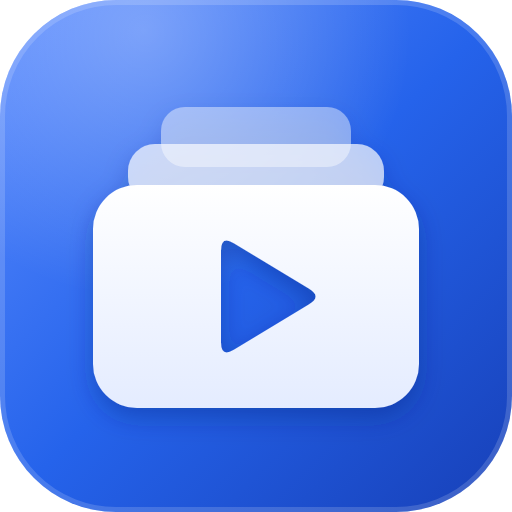
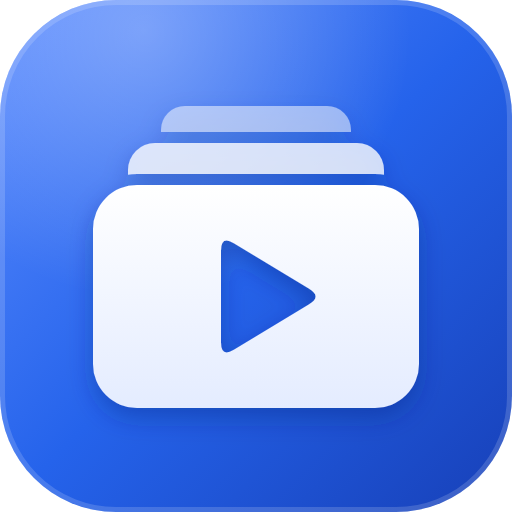
polish(ui): clean stacked-cards mark, sidebar account card, segmented sort, empty states
- Logo: the back cards were translucent and overlapped, doubling the alpha
  into a darker band. Each card now has an even gap masked out around the
  card in front, so the three layers read as separate cards at every size.
- Desktop sidebar: the loose "● 18 games on server" line becomes an account
  card (avatar with a connection light, name, game count). It opens the
  account menu upward (profile, refresh, settings, switch, sign out); guests
  get a Sign in card. The header now holds only the page title and search.
- Web UI sidebar: same card (avatar + light, user, "Steam · v0.3.1"), with
  sign-in / sign-out in place of the stray glyph button.
- Sort controls (store + profile) are a labelled segmented control.
- Empty states get a tinted icon disc and calmer type; Downloads has its own
  icon.

Claude-Session: https://claude.ai/code/session_01EVJwiv4epfU4RFj83Dkqo2

Changed region(s): [[0.25, 0.2812, 0.75, 0.375], [0.3125, 0.25, 0.6875, 0.2812]]

diff --git a/client/renderer/app.js b/client/renderer/app.js
@@ -8,6 +8,7 @@ const gh = window.gamehub;
 const ES_ICONS = {
   controller: '<svg viewBox="0 0 24 24"><path d="M7.97 6h8.06a5.5 5.5 0 0 1 5.39 4.47l1.02 5.6a3 3 0 0 1-5.2 2.54L15.6 16H8.4l-1.64 2.61a3 3 0 0 1-5.2-2.54l1.02-5.6A5.5 5.5 0 0 1 7.97 6Zm0 2a3.5 3.5 0 0 0-3.43 2.85l-1.02 5.6a1 1 0 0 0 1.73.85L7.6 14h8.8l2.35 3.45a1 1 0 0 0 1.73-.85l-1.02-5.6A3.5 3.5 0 0 0 16.03 8H7.97ZM8 10.25a1 1 0 0 1 1 1v.75h.75a1 1 0 1 1 0 2H9v.75a1 1 0 1 1-2 0V14h-.75a1 1 0 1 1 0-2H7v-.75a1 1 0 0 1 1-1Zm7.75.5a1.25 1.25 0 1 1 0 2.5 1.25 1.25 0 0 1 0-2.5Zm2.5 2.5a1.25 1.25 0 1 1 0 2.5 1.25 1.25 0 0 1 0-2.5Z"/></svg>',
   trophy: '<svg viewBox="0 0 24 24"><path d="M6 2h12a1 1 0 0 1 1 1v1h2a1 1 0 0 1 1 1c0 2.9-2.35 5.32-5.24 5.48A6.01 6.01 0 0 1 13 14.92V17h3a1 1 0 1 1 0 2H8a1 1 0 1 1 0-2h3v-2.08a6.01 6.01 0 0 1-3.76-4.44C4.35 10.32 2 7.9 2 5a1 1 0 0 1 1-1h2V3a1 1 0 0 1 1-1Zm13 4h-1v2.06A3 3 0 0 0 20 6h-1ZM5 6H4a3 3 0 0 0 2 2.06V6Z"/></svg>',
+  download: '<svg viewBox="0 0 24 24"><path d="M12 3a1 1 0 0 1 1 1v9.59l3.3-3.3a1 1 0 1 1 1.4 1.42l-5 5a1 1 0 0 1-1.4 0l-5-5a1 1 0 1 1 1.4-1.42l3.3 3.3V4a1 1 0 0 1 1-1ZM5 19a1 1 0 0 1 1-1h12a1 1 0 1 1 0 2H6a1 1 0 0 1-1-1Z"/></svg>',
   search: '<svg viewBox="0 0 24 24"><path d="M10 2a8 8 0 1 0 4.9 14.32l5.39 5.39a1 1 0 0 0 1.42-1.42l-5.39-5.39A8 8 0 0 0 10 2Zm0 2a6 6 0 1 1 0 12 6 6 0 0 1 0-12Z"/></svg>',
   check: '<svg viewBox="0 0 24 24"><path d="M12 2a10 10 0 1 0 0 20 10 10 0 0 0 0-20Zm0 2a8 8 0 1 1 0 16 8 8 0 0 1 0-16Zm-1.17 10.24 5.66-5.66a1 1 0 0 1 1.42 1.42l-6.37 6.36a1 1 0 0 1-1.41 0l-3.19-3.18a1 1 0 1 1 1.42-1.42l2.47 2.48Z"/></svg>',
   user: '<svg viewBox="0 0 24 24"><path d="M12 2a5 5 0 1 1 0 10 5 5 0 0 1 0-10Zm0 12c4.42 0 8 2.24 8 5v1a1 1 0 0 1-1 1H5a1 1 0 0 1-1-1v-1c0-2.76 3.58-5 8-5Z"/></svg>',
@@ -359,7 +360,7 @@ function sortGames(list, sort) {
 function sortControlHtml() {
   const s = state.storeSort;
   const b = (k, l) => `<button class="sort-btn${s === k ? ' on' : ''}" data-storesort="${k}">${l}</button>`;
-  return `<span class="sort-control"><span class="muted">Sort</span>${b('featured', 'Featured')}${b('reviews', 'Rating')}${b('added', 'Newest')}${b('released', 'Release')}${b('name', 'Name')}</span>`;
+  return `<span class="sort-control"><span class="sort-label">Sort by</span><span class="sort-seg" role="group" aria-label="Sort">${b('featured', 'Featured')}${b('reviews', 'Rating')}${b('added', 'Newest')}${b('released', 'Release')}${b('name', 'Name')}</span></span>`;
 }
 
 /** Top picks for a focused store page — prefer games with hero art. */
@@ -1640,10 +1641,23 @@ function avatarHtml(user, size = 40) {
   return `<div class="pfp fallback" style="${dim};font-size:${Math.round(size * 0.42)}px;background:${avatarColor(name)}">${esc(name.slice(0, 1).toUpperCase())}</div>`;
 }
 function setAccountAvatar(avatar) {
-  const btn = $('#account-btn');
-  if (!btn) return;
-  if (avatar) { btn.style.backgroundImage = `url('${avatar}')`; btn.classList.add('has-avatar'); }
-  else { btn.style.backgroundImage = ''; btn.classList.remove('has-avatar'); }
+  const el = $('#account-avatar');
+  if (!el) return;
+  if (avatar) { el.style.backgroundImage = `url('${avatar}')`; el.classList.add('has-avatar'); }
+  else { el.style.backgroundImage = ''; el.classList.remove('has-avatar'); }
+}
+// Sidebar account card subtitle: "nas:8686 · 18 games" / "This PC · 18 games" / "… · Offline"
+let connLabel = '';
+let libCount = null;
+function setConnStatus(ok) {
+  const dot = $('#conn-dot');
+  dot.className = `presence ${ok ? 'ok' : 'warn'}`;
+  dot.title = ok ? 'Connected' : 'Offline';
+  const count = libCount == null ? '' : `${libCount} game${libCount === 1 ? '' : 's'}`;
+  // the host lives in the tooltip + menu header; the card keeps to what fits
+  $('#status-line').textContent = ok ? (isLocalMode ? [count, 'This PC'].filter(Boolean).join(' · ') : count) : 'Offline · retrying';
+  const card = $('#account-btn');
+  if (card && connLabel) card.title = `${ok ? 'Connected to' : 'Can’t reach'} ${connLabel}`;
 }
 
 let socialPollTimer = null;
@@ -1850,11 +1864,11 @@ function renderProfileHtml() {
       ${top.length ? `<div class="section-head"><h2>Top played</h2></div>
         <div class="card-rail">${top.map(profileTopCard).join('')}</div>` : ''}
       <div class="section-head"><h2>All played games</h2>
-        <span class="profile-sort">Sort:
+        <span class="profile-sort sort-control"><span class="sort-label">Sort by</span><span class="sort-seg" role="group" aria-label="Sort">
           <button class="sort-btn${sort === 'seconds' ? ' on' : ''}" data-sort="seconds">Playtime</button>
           <button class="sort-btn${sort === 'recent' ? ' on' : ''}" data-sort="recent">Recent</button>
           <button class="sort-btn${sort === 'name' ? ' on' : ''}" data-sort="name">Name</button>
-        </span>
+        </span></span>
       </div>
       <div class="played-list">${games.map(playedRow).join('')}</div>`}`;
 }
@@ -2210,6 +2224,7 @@ function wire(root) {
 }
 function closeMenus() {
   document.querySelectorAll('.menu').forEach((m) => m.classList.add('hidden'));
+  document.querySelectorAll('[aria-haspopup="menu"][aria-expanded="true"]').forEach((b) => b.setAttribute('aria-expanded', 'false'));
   document.querySelector('.ctx-menu')?.remove();
 }
 document.addEventListener('click', closeMenus);
@@ -2716,8 +2731,7 @@ async function refreshData(force = false) {
   try {
     const lib = await gh.getLibrary();
     loaded = true;
-    $('#conn-dot').className = 'dot ok';
-    $('#conn-dot').title = 'connected';
+    setConnStatus(true);
     $('#banner').classList.add('hidden');
     if (lib.categories) state.categories = lib.categories; // local; always current
     const hash = JSON.stringify([lib.games, lib.installed, lib.myLibrary, lib.favorites, lib.playtime]);
@@ -2727,17 +2741,15 @@ async function refreshData(force = false) {
     state.games = lib.games;
     rebuildGroups(); // recompute duplicate-package groups whenever the game list changes
     // count logical games (duplicate packages collapse into one)
-    const logical = groupsByKey.size;
-    $('#status-line').textContent = `${logical} game${logical === 1 ? '' : 's'} on server`;
+    libCount = groupsByKey.size;
+    setConnStatus(true);
     state.installed = lib.installed;
     state.myLibrary = lib.myLibrary || [];
     state.favorites = lib.favorites || [];
     state.playtime = lib.playtime || {};
     render();
   } catch (err) {
-    $('#conn-dot').className = 'dot warn';
-    $('#conn-dot').title = 'offline';
-    $('#status-line').textContent = 'offline';
+    setConnStatus(false);
     const needsLogin = /401/.test(err.message);
     if (needsLogin) {
       $('#banner').classList.add('hidden');
@@ -3502,36 +3514,45 @@ async function updateAccountChip() {
   // Social + Profile need an account — hide them from guests
   $('#nav-social').classList.toggle('hidden', isGuestMode);
   if (isGuestMode && (state.view === 'social' || state.view === 'profile')) switchView('store');
-  const acct = $('#account');
-  const signin = $('#account-signin');
-  const name = isLocal ? (cfg.username || 'Local') : cfg.username;
+  const host = String(cfg.serverUrl || '').replace(/^https?:\/\//, '').replace(/\/+$/, '');
+  connLabel = isLocal ? 'This PC' : host;
+  const name = isLocal ? (cfg.username || 'You') : cfg.username;
+  const card = $('#account-btn');
+  card.classList.toggle('guest', isGuestMode || !name);
   if (isGuestMode || !name) {
-    acct.classList.add('hidden');
-    signin.classList.remove('hidden'); // guest → offer sign-in
+    $('#sb-user').textContent = 'Sign in';
+    card.title = 'Sign in to install games';
+    $('#account-avatar').textContent = '';
+    $('#account-avatar').innerHTML = '<svg class="i" viewBox="0 0 24 24"><circle cx="12" cy="8.5" r="3.6"/><path d="M5 19.5c.8-3.4 3.6-5.3 7-5.3s6.2 1.9 7 5.3"/></svg>';
     setAccountAvatar(null);
-    return;
+  } else {
+    $('#sb-user').textContent = name;
+    $('#account-avatar').textContent = name.slice(0, 1).toUpperCase();
+    $('#account-name').textContent = name;
+    $('#account-server').textContent = isLocal
+      ? (() => {
+          const store = cfg.storeDir || cfg.libraryDir || '';
+          return store ? `Store · ${store.split(/[\\/]/).pop()}` : 'Local Store';
+        })()
+      : host;
+    // pull my picture into the card (fire-and-forget — the initial shows meanwhile)
+    gh.myStats().then((st) => setAccountAvatar(st && st.avatar)).catch(() => {});
   }
-  signin.classList.add('hidden');
-  acct.classList.remove('hidden');
-  $('#account-btn').textContent = name.slice(0, 1).toUpperCase();
-  $('#account-name').textContent = name;
-  $('#account-server').textContent = isLocal
-    ? (() => {
-        const store = cfg.storeDir || cfg.libraryDir || '';
-        return store ? `Store · ${store.split(/[\\/]/).pop()}` : 'Local Store';
-      })()
-    : cfg.serverUrl.replace(/^https?:\/\//, '');
-  // pull my picture into the chip (fire-and-forget — the initial shows meanwhile)
-  gh.myStats().then((st) => setAccountAvatar(st && st.avatar)).catch(() => {});
+  $('#account-switch').classList.toggle('hidden', isLocal);
+  $('#account-logout').classList.toggle('hidden', isLocal);
+  if (libCount != null) setConnStatus(!$('#conn-dot').classList.contains('warn'));
 }
 $('#account-signin').onclick = () => showAuth();
 $('#account-btn').onclick = (ev) => {
   ev.stopPropagation();
+  if ($('#account-btn').classList.contains('guest')) { showAuth(); return; }
   const menu = $('#account-menu');
   const wasHidden = menu.classList.contains('hidden');
   closeMenus();
   menu.classList.toggle('hidden', !wasHidden);
+  $('#account-btn').setAttribute('aria-expanded', String(wasHidden));
 };
+$('#account-refresh').onclick = () => { closeMenus(); $('#refresh-btn').click(); };
 $('#account-profile').onclick = () => { closeMenus(); loadProfile(); };
 $('#account-settings').onclick = () => { closeMenus(); openSettings('connection'); };
 $('#account-logout').onclick = async () => {

diff --git a/client/renderer/style.css b/client/renderer/style.css
@@ -1930,3 +1930,81 @@ body[data-view="game"] #page-title { visibility: hidden; }
 .game-page > .back-btn .i { width: 22px; height: 22px; }
 .detail-hero .gp-hero-main { flex: 0 0 auto; }
 header:has(#search.hidden) > .header-right { margin-left: auto; }
+
+/* ---------- sidebar account card (replaces the loose dot + "18 games" line) ---------- */
+.sidebar .sb-foot {
+  display: flex; align-items: center; gap: 4px; padding: 8px 0 0; margin-top: 6px;
+  border-top: 1px solid var(--border); position: relative;
+}
+.sb-foot .account { flex: 1; min-width: 0; position: relative; }
+.sb-account {
+  all: unset; box-sizing: border-box; width: 100%; cursor: pointer;
+  display: flex; align-items: center; gap: 10px; padding: 8px 8px; border-radius: 10px;
+  transition: background .18s var(--ease); -webkit-app-region: no-drag;
+}
+.sb-account:hover, .sb-account[aria-expanded="true"] { background: var(--fill-2); }
+.sb-account:focus-visible { outline: 2px solid var(--focus-ring); outline-offset: 1px; }
+.sb-account:active { transform: scale(0.985); }
+.sb-avatar-wrap { position: relative; flex: none; width: 32px; height: 32px; }
+.sb-avatar {
+  width: 32px; height: 32px; border-radius: 50%; display: grid; place-items: center;
+  background: linear-gradient(135deg, var(--accent-hover), var(--accent-press)) center / cover no-repeat;
+  color: #fff; font: 650 13px var(--font-ui);
+}
+.sb-avatar.has-avatar { color: transparent; background-size: cover; }
+.sb-avatar .i { width: 18px; height: 18px; }
+.sb-account.guest .sb-avatar { background: var(--fill-3); color: var(--text-2); }
+.presence {
+  position: absolute; right: -1px; bottom: -1px; width: 11px; height: 11px; border-radius: 50%;
+  background: var(--text-3); box-shadow: 0 0 0 2.5px var(--sidebar); transition: background .3s var(--ease);
+}
+.presence.ok { background: var(--green); }
+.presence.warn { background: var(--amber); }
+.sb-acct-text { flex: 1; min-width: 0; display: flex; flex-direction: column; line-height: 1.25; }
+.sb-user { font: 600 13.5px var(--font-ui); color: var(--text); white-space: nowrap; overflow: hidden; text-overflow: ellipsis; }
+.sb-account.guest .sb-user { color: var(--accent-text); }
+.sb-status { font-size: 12px; color: var(--muted); white-space: nowrap; overflow: hidden; text-overflow: ellipsis; font-variant-numeric: tabular-nums; }
+.sb-status:empty { display: none; }
+.sb-chev { width: 15px; height: 15px; color: var(--text-3); flex: none; }
+.sb-account.guest .sb-chev { display: none; }
+.sb-icon {
+  all: unset; flex: none; width: 32px; height: 32px; border-radius: 9px; display: grid; place-items: center;
+  color: var(--muted); cursor: pointer; transition: background .18s var(--ease), color .18s; -webkit-app-region: no-drag;
+}
+.sb-icon:hover { background: var(--fill-2); color: var(--text); }
+.sb-icon:focus-visible { outline: 2px solid var(--focus-ring); }
+.sb-icon .i { width: 17px; height: 17px; transition: transform .5s var(--spring); }
+.sb-icon:hover .i { transform: rotate(60deg); }
+.sb-icon.spinning .i { animation: gh-spin .8s linear infinite; }
+.sb-foot .account .menu {
+  top: auto; bottom: calc(100% + 8px); left: 0; right: auto; min-width: 220px; transform-origin: bottom left;
+}
+@media (max-width: 1100px) {
+  .sidebar .sb-foot { flex-direction: column; gap: 6px; border-top: none; }
+  .sb-acct-text, .sb-chev { display: none; }
+  .sb-account { justify-content: center; padding: 6px; }
+}
+
+/* account card: refresh lives in its menu — give the subtitle the room */
+.sb-foot #refresh-btn { display: none; }
+
+/* sort: label + segmented control */
+.sort-control { gap: 10px; font-size: 12.5px; }
+.sort-label { color: var(--muted); font-size: 12.5px; }
+.sort-seg { display: inline-flex; gap: 2px; padding: 3px; border-radius: 10px; background: var(--fill-1); border: 1px solid var(--border); }
+.sort-btn {
+  border: none; background: transparent; color: var(--muted); font: 500 12.5px var(--font-ui);
+  padding: 5px 12px; border-radius: 7px; cursor: pointer; transition: background .2s var(--ease), color .2s, box-shadow .2s;
+}
+.sort-btn:hover { color: var(--text); background: transparent; }
+.sort-btn.on { color: var(--text); background: var(--panel); border: none; box-shadow: 0 1px 3px rgba(0,0,0,0.14), inset 0 0 0 0.5px var(--border); }
+.sort-btn:focus-visible { outline: 2px solid var(--focus-ring); outline-offset: 1px; }
+
+/* empty states: tinted icon disc, calmer type */
+.empty-state { gap: 10px; padding: 72px 20px; }
+.empty-state .es-icon {
+  width: 72px; height: 72px; padding: 18px; border-radius: 50%; margin-bottom: 6px;
+  color: var(--accent-text); background: var(--accent-soft);
+}
+.empty-state .es-title { font: 650 18px var(--font-display); letter-spacing: -0.01em; }
+.empty-state .es-sub { font-size: 14px; max-width: 42ch; text-align: center; }

diff --git a/client/renderer/index.html b/client/renderer/index.html
@@ -22,27 +22,37 @@
         <svg class="update-spinner" viewBox="0 0 16 16" aria-hidden="true"><circle cx="8" cy="8" r="5.5" fill="none" stroke="currentColor" stroke-opacity="0.25" stroke-width="2"/><path d="M8 2.5a5.5 5.5 0 0 1 5.5 5.5" fill="none" stroke="currentColor" stroke-width="2" stroke-linecap="round"/></svg>
         <span id="update-pct" class="rail-badge update-pct hidden" aria-hidden="true"></span>
       <span class="nav-label">Update ready</span></button>
-      <div class="sb-foot"><span id="conn-dot" class="dot" title="connecting…"></span><span id="status-line" class="muted">connecting…</span></div>
+      <div class="sb-foot">
+        <div id="account" class="account">
+          <button id="account-btn" class="sb-account" aria-haspopup="menu" aria-expanded="false" title="Account">
+            <span class="sb-avatar-wrap">
+              <span id="account-avatar" class="sb-avatar" aria-hidden="true"><svg class="i" viewBox="0 0 24 24"><circle cx="12" cy="8.5" r="3.6"/><path d="M5 19.5c.8-3.4 3.6-5.3 7-5.3s6.2 1.9 7 5.3"/></svg></span>
+              <span id="conn-dot" class="presence" title="Connecting…"></span>
+            </span>
+            <span class="sb-acct-text">
+              <span id="sb-user" class="sb-user">Connecting…</span>
+              <span id="status-line" class="sb-status"></span>
+            </span>
+            <svg class="i sb-chev" viewBox="0 0 24 24" aria-hidden="true"><path d="m8 10 4-4 4 4M8 14l4 4 4-4"/></svg>
+          </button>
+          <div id="account-menu" class="menu hidden" role="menu">
+            <div class="menu-head"><strong id="account-name">—</strong><span id="account-server" class="muted"></span></div>
+            <button id="account-profile">My profile &amp; stats</button>
+            <button id="account-refresh">Refresh library</button>
+            <button id="account-settings">Settings</button>
+            <button id="account-switch">Switch account</button>
+            <button id="account-logout" class="danger">Sign out</button>
+          </div>
+        </div>
+        <button id="refresh-btn" class="sb-icon" title="Refresh library" aria-label="Refresh library"><svg class="i" viewBox="0 0 24 24" aria-hidden="true"><path d="M19.5 12a7.5 7.5 0 1 1-2.2-5.3"/><path d="M19.5 4.5v4h-4"/></svg></button>
+        <button id="account-signin" class="hidden" tabindex="-1" aria-hidden="true"></button>
+      </div>
     </nav>
 
     <div class="content">
       <header>
         <h1 id="page-title">Store</h1>
         <label class="search-wrap" for="search"><svg class="i" viewBox="0 0 24 24" aria-hidden="true"><circle cx="11" cy="11" r="6.5"/><path d="m16 16 4 4"/></svg><input id="search" type="search" placeholder="Search" spellcheck="false" /></label>
-        <div class="header-right">
-          <button id="refresh-btn" class="btn icon" title="Refresh" aria-label="Refresh"><svg class="i" viewBox="0 0 24 24" aria-hidden="true"><path d="M19.5 12a7.5 7.5 0 1 1-2.2-5.3"/><path d="M19.5 4.5v4h-4"/></svg></button>
-          <button id="account-signin" class="btn hidden">Sign in</button>
-          <div id="account" class="account hidden">
-            <button id="account-btn" class="avatar" title="Account">?</button>
-            <div id="account-menu" class="menu hidden">
-              <div class="menu-head"><strong id="account-name">—</strong><span id="account-server" class="muted"></span></div>
-              <button id="account-profile">My profile &amp; stats</button>
-              <button id="account-settings">Settings</button>
-              <button id="account-switch">Switch account</button>
-              <button id="account-logout" class="danger">Sign out</button>
-            </div>
-          </div>
-        </div>
         <div class="win-controls">
           <button id="win-min" title="Minimize"><svg viewBox="0 0 10 10"><path d="M0 5h10" stroke="currentColor"/></svg></button>
           <button id="win-max" title="Maximize"><svg viewBox="0 0 10 10"><rect x="1" y="1" width="8" height="8" fill="none" stroke="currentColor"/></svg></button>

diff --git a/server/public/style.css b/server/public/style.css
@@ -1476,3 +1476,34 @@ header { background: var(--bg); border-bottom: none; }
 .detail-hero .hero-content { align-self: stretch; align-items: flex-start; text-align: left; margin: 0; width: 100%; }
 .detail-hero .hero-title-row, .detail-hero .hero-meta { justify-content: flex-start; }
 header, .header-inner { border-bottom: none; }
+
+/* ---------- sidebar footer card (web UI) ---------- */
+.side-foot {
+  margin-top: auto; display: flex; align-items: center; gap: 10px; padding: 12px 8px 2px;
+  border-top: 1px solid var(--border); min-height: 0; font-size: 12px;
+}
+.sb-avatar-wrap { position: relative; flex: none; width: 32px; height: 32px; }
+.sb-avatar {
+  width: 32px; height: 32px; border-radius: 50%; display: grid; place-items: center;
+  background: linear-gradient(135deg, var(--accent-hover), var(--accent-press)); color: #fff; font: 650 13px var(--font-ui);
+}
+.sb-avatar.guest { background: var(--fill-3); color: var(--text-2); }
+.sb-avatar .i { width: 18px; height: 18px; }
+.presence {
+  position: absolute; right: -1px; bottom: -1px; width: 11px; height: 11px; border-radius: 50%;
+  background: var(--text-3); box-shadow: 0 0 0 2.5px var(--sidebar);
+}
+.presence.ok { background: var(--green); }
+.presence.warn { background: var(--amber); }
+.sb-acct-text { flex: 1; min-width: 0; display: flex; flex-direction: column; line-height: 1.25; }
+.sb-user { font: 600 13.5px var(--font-ui); color: var(--text); white-space: nowrap; overflow: hidden; text-overflow: ellipsis; }
+.sb-status { font-size: 12px; color: var(--muted); white-space: nowrap; overflow: hidden; text-overflow: ellipsis; }
+.sb-icon {
+  flex: none; width: 32px; height: 32px; border-radius: 9px; display: grid; place-items: center;
+  border: none; background: transparent; color: var(--muted); cursor: pointer; transition: background .18s var(--ease), color .18s;
+}
+.sb-icon:hover { background: rgba(var(--red-rgb), 0.1); color: var(--red); }
+.sb-icon .i { width: 17px; height: 17px; }
+.side-foot .btn.pill { padding: 6px 14px; }
+.shell.sidebar-collapsed .side-foot { justify-content: center; border-top: none; }
+.shell.sidebar-collapsed .side-foot .sb-icon { display: none; }

diff --git a/server/public/app.js b/server/public/app.js
@@ -2175,12 +2175,15 @@ async function refresh(force = false) {
 
     // sidebar footer + badges
     const dot = $('#source-dot');
+    const NICE = { steam: 'Steam', rawg: 'RAWG', igdb: 'IGDB' };
     if (status.providers.length) {
-      dot.className = 'dot ok';
-      $('#side-status').textContent = `${status.providers.join(' + ')} · v${status.version}`;
+      dot.className = 'presence ok';
+      dot.title = `Server v${status.version} · matching with ${status.providers.map((x) => NICE[x] || x).join(', ')}`;
+      $('#side-status').textContent = `${status.providers.map((x) => NICE[x] || x).join(' + ')} · v${status.version}`;
     } else {
-      dot.className = 'dot warn';
-      $('#side-status').textContent = 'no sources configured';
+      dot.className = 'presence warn';
+      dot.title = 'No metadata sources configured';
+      $('#side-status').textContent = 'No sources set up';
     }
     const errBadge = $('#nav-badge-errors');
     errBadge.textContent = status.errorCount;
@@ -2303,6 +2306,16 @@ function applyRole() {
   $('#signin-btn').classList.toggle('hidden', !guest);
   $('#logout-btn').classList.toggle('hidden', guest);
   if (!guest && me) $('#logout-btn').title = `Sign out ${me.username}`;
+  const av = $('#sf-avatar');
+  if (!guest && me) {
+    $('#sf-user').textContent = me.username;
+    av.classList.remove('guest');
+    av.textContent = String(me.username || '?').slice(0, 1).toUpperCase();
+  } else {
+    $('#sf-user').textContent = 'Guest';
+    av.classList.add('guest');
+    av.innerHTML = '<svg class="i" viewBox="0 0 24 24" aria-hidden="true"><circle cx="12" cy="8.5" r="3.6"/><path d="M5 19.5c.8-3.4 3.6-5.3 7-5.3s6.2 1.9 7 5.3"/></svg>';
+  }
   // if a guest is parked on an admin route, send them to the library
   if (!admin && ['activity', 'errors', 'settings'].includes(currentRoute())) {
     location.hash = '#/library';

diff --git a/server/public/index.html b/server/public/index.html
@@ -41,10 +41,16 @@
         </a>
       </nav>
       <div class="side-foot">
-        <span id="source-dot" class="dot"></span>
-        <span id="side-status" class="muted nav-label">connecting…</span>
-        <button id="signin-btn" class="btn sm hidden">Sign in</button>
-        <button id="logout-btn" class="logout hidden" title="Sign out" aria-label="Sign out"><svg class="i" viewBox="0 0 24 24" aria-hidden="true"><path d="M14 4.5h3.5a2 2 0 0 1 2 2v11a2 2 0 0 1-2 2H14"/><path d="M10 8l-4 4 4 4M6 12h9.5"/></svg></button>
+        <span class="sb-avatar-wrap">
+          <span id="sf-avatar" class="sb-avatar guest"><svg class="i" viewBox="0 0 24 24" aria-hidden="true"><circle cx="12" cy="8.5" r="3.6"/><path d="M5 19.5c.8-3.4 3.6-5.3 7-5.3s6.2 1.9 7 5.3"/></svg></span>
+          <span id="source-dot" class="presence" title="Connecting…"></span>
+        </span>
+        <span class="sb-acct-text nav-label">
+          <span id="sf-user" class="sb-user">Guest</span>
+          <span id="side-status" class="sb-status">Connecting…</span>
+        </span>
+        <button id="signin-btn" class="btn sm primary pill nav-label hidden">Sign in</button>
+        <button id="logout-btn" class="sb-icon hidden" title="Sign out" aria-label="Sign out"><svg class="i" viewBox="0 0 24 24" aria-hidden="true"><path d="M14 4.5h3.5a2 2 0 0 1 2 2v11a2 2 0 0 1-2 2H14"/><path d="M10 8l-4 4 4 4M6 12h9.5"/></svg></button>
       </div>
       <button type="button" id="sidebar-tab" class="sidebar-tab" title="Collapse sidebar" aria-label="Collapse sidebar" aria-expanded="true">
         <svg viewBox="0 0 16 16" aria-hidden="true"><path d="M9.5 3.5 5 8l4.5 4.5" fill="none" stroke="currentColor" stroke-width="1.6" stroke-linecap="round" stroke-linejoin="round"/></svg>
